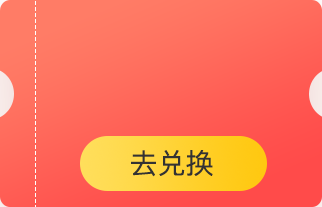
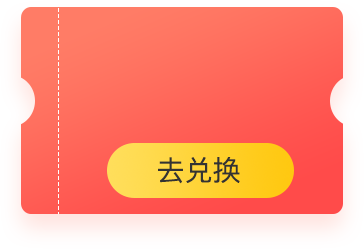
签到UI调整

diff --git a/css/earnPoints.css b/css/earnPoints.css
@@ -23,8 +23,8 @@
 }
 .dailyTasks h3,.newbieTask h3{
     position: relative;
-    height: 1.306667rem;
-    line-height: 1.306667rem;
+    line-height:.426667rem;
+    padding: 0.4rem;
     border-bottom:1px solid #ededed;
     font-size: .426667rem;
     color: #333;
@@ -74,18 +74,27 @@
     margin-left: .253333rem;
     margin-right: .093333rem;
 }
-.dailyTasks>div button,.newbieTask>div button{
+.dailyTasks>div button:nth-of-type(1),.newbieTask>div button:nth-of-type(1){
     width: 1.76rem;
     height: .733333rem;
-    line-height: .733333rem;
     background: #fa754c;
     color: #fff;
     border: none;
+    outline: none;
     border-radius: .4rem;
     margin-left:auto;
     margin-right: .4rem;
 }
-
+.dailyTasks>div button:nth-of-type(2),.newbieTask>div button:nth-of-type(2){
+    width: 1.76rem;
+    height: .733333rem;
+    border: none;
+    border-radius: .4rem;
+    margin-left:auto;
+    margin-right: .4rem;
+    color: #ffffff;
+    background-color: #ddd;
+}  
 .dailyTasks>div>div span img,.newbieTask>div>div span img{
      width: .4rem;
      height: .4rem;

diff --git a/css/exchangeGift.css b/css/exchangeGift.css
@@ -98,23 +98,22 @@
     display: flex;
     justify-content: center;
 }
-.integralCard p{
+.integralCard>div{
     float: left;
-    width: 4.293333rem;
-    height: 2.76rem;
+    width: 4.853333rem;
+    height: 3.32rem;
     line-height: 1.8rem;
     text-align: center;
     color: #fff;
     font-size: .426667rem;
 }
-.integralCard p:nth-of-type(1){
+.integralCard>div:nth-of-type(1){
     background: url(../img/integralCard1.png)no-repeat;
-    background-size: 4.293333rem 2.76rem;
-    margin-right: .48rem;
+    background-size: 4.853333rem 3.32rem;
 }
-.integralCard p:nth-of-type(2){
+.integralCard>div:nth-of-type(2){
     background: url(../img/integralCard2.png)no-repeat;
-    background-size: 4.293333rem 2.76rem;
+    background-size: 4.853333rem 3.32rem;
 }
 .exchange>button{
     width: 6.293333rem;

diff --git a/exchangeGift.html b/exchangeGift.html
@@ -29,8 +29,12 @@
         <div class="exchange">
             <p>可兑换的积分卡</p>
             <div class="integralCard clearfix">
-                <p>100元积分卡</p>
-                <p>100元积分卡</p>
+                <div>
+                    <p>100元积分卡</p>
+                </div>
+                <div>
+                    <p>100元积分卡</p>
+                </div>
             </div>
             <button>
                去做任务，兑换更多积分卡
